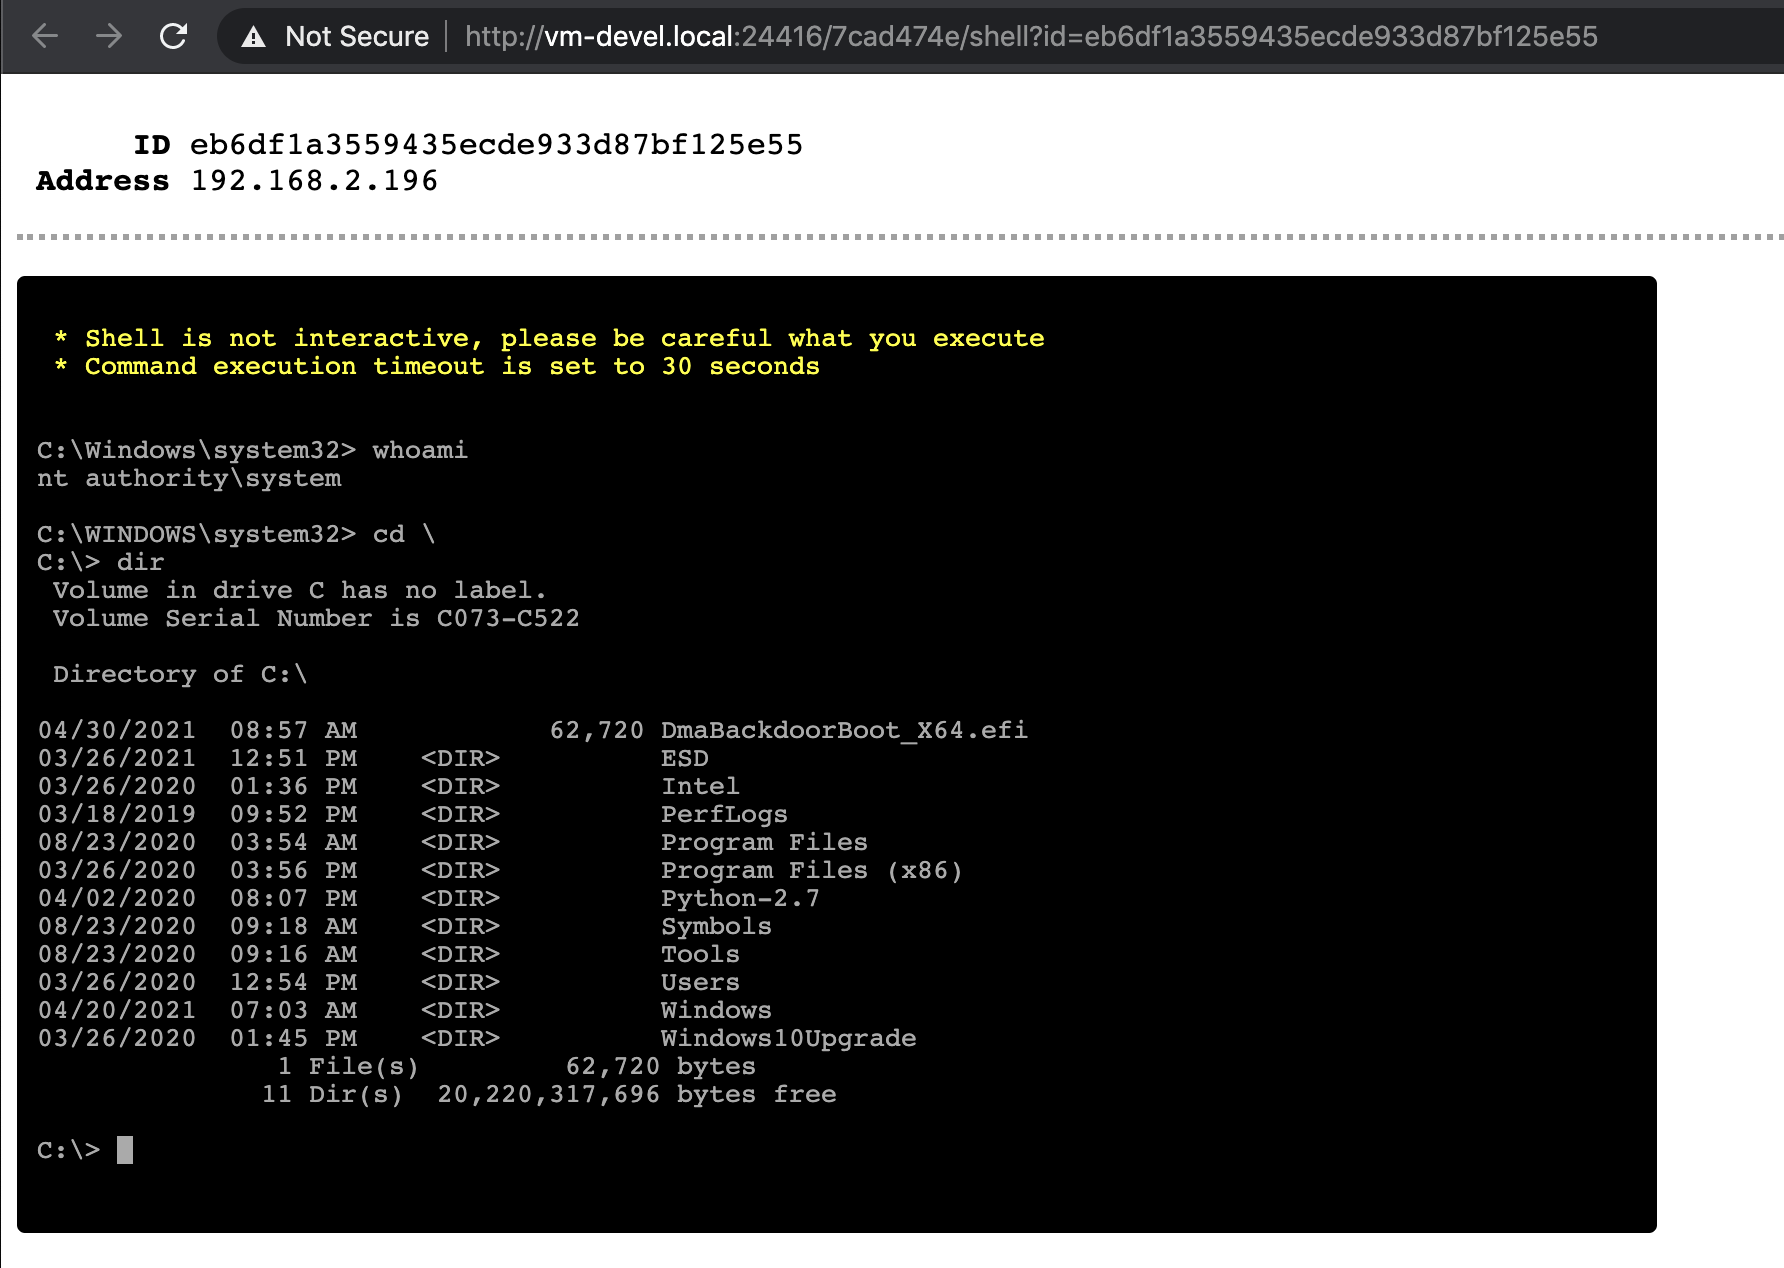
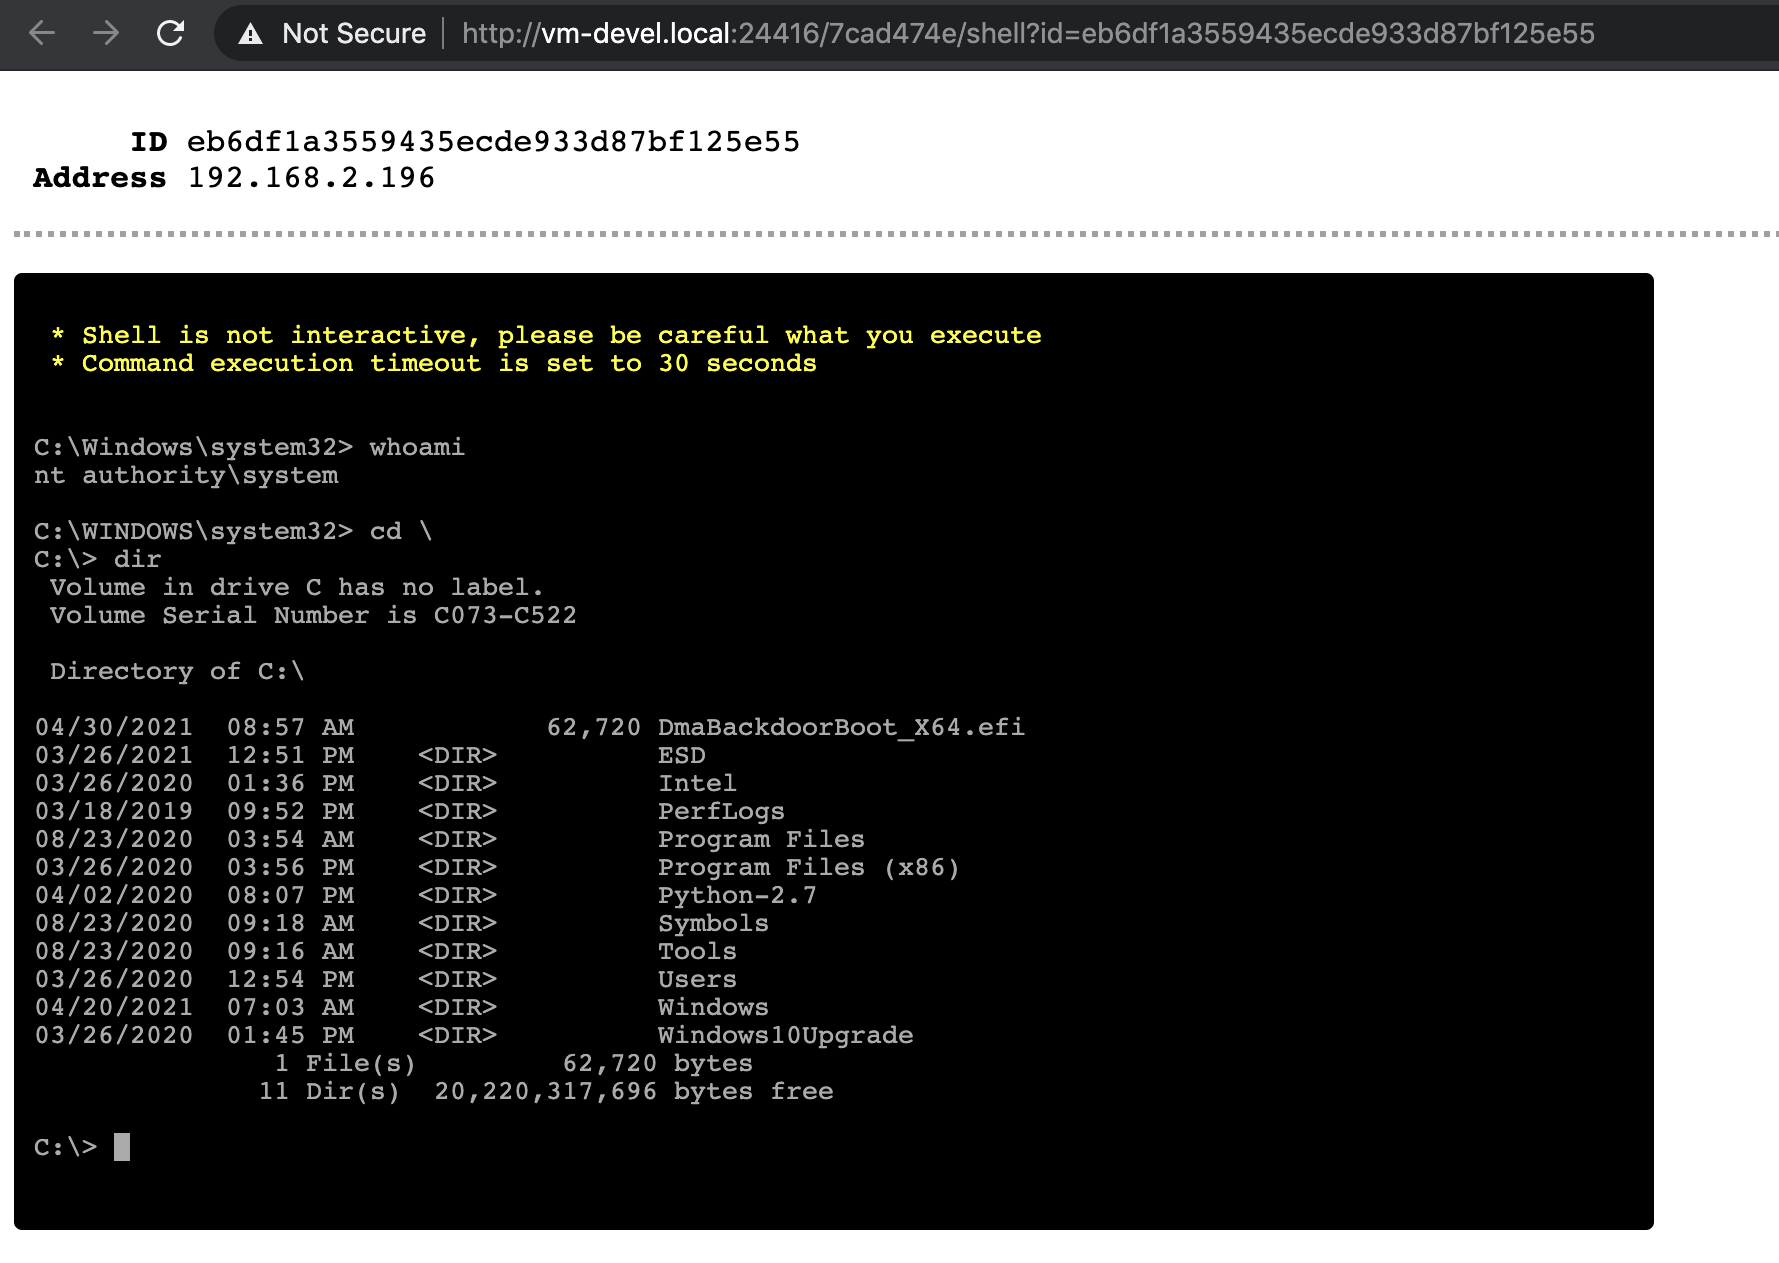
readme update

diff --git a/README.MD b/README.MD
@@ -35,17 +35,17 @@ Key features of the Micro Backdoor:
 
 Main web interface page with connected clients list:
 
-<img src="https://raw.githubusercontent.com/Cr4sh/MicroBackdoor/master/docs/images/web_main.png" width="885" height="595" style="border: 1px solid black;">
+<img src="https://raw.githubusercontent.com/Cr4sh/MicroBackdoor/master/docs/images/web_main.png" width="885" height="595">
   
 
 Command shell page:
 
-<img src="https://raw.githubusercontent.com/Cr4sh/MicroBackdoor/master/docs/images/web_shell.png" width="892" height="634" style="border: 1px solid black;">
+<img src="https://raw.githubusercontent.com/Cr4sh/MicroBackdoor/master/docs/images/web_shell.png" width="889" height="631">
   
   
 File manager page:
 
-<img src="https://raw.githubusercontent.com/Cr4sh/MicroBackdoor/master/docs/images/web_files.png" width="885" height="588" style="border: 1px solid black;">
+<img src="https://raw.githubusercontent.com/Cr4sh/MicroBackdoor/master/docs/images/web_files.png" width="885" height="588">
 
 
 ## Configuring the server
@@ -161,7 +161,7 @@ Host my-server
 
 Micro Backdoor client consists from binary part used to implement backdoor functionality and JScript wrapper combined with the shellcode used to run and deliver the binary part in file-less way.  
 
-⚠ ** JScript and PowerShell code used in client dropper is easily detectable my most of AV/EDR products, you should consider to modify it [or use other methods](https://github.com/Cr4sh/s6_pcie_microblaze/tree/master/python/payloads/DmaBackdoorBoot) to deliver binary part of the client**  
+⚠ **JScript and PowerShell code used in client dropper is easily detectable my most of AV/EDR products, you should consider to modify it [or use other methods](https://github.com/Cr4sh/s6_pcie_microblaze/tree/master/python/payloads/DmaBackdoorBoot) to deliver binary part of the client**  
 
 First, you have to configure the binary part with the help of `./client_builder.py` command line program, it operates with the configuration specified in `./server/config.py` file mentioned in previous part of the document:
 
